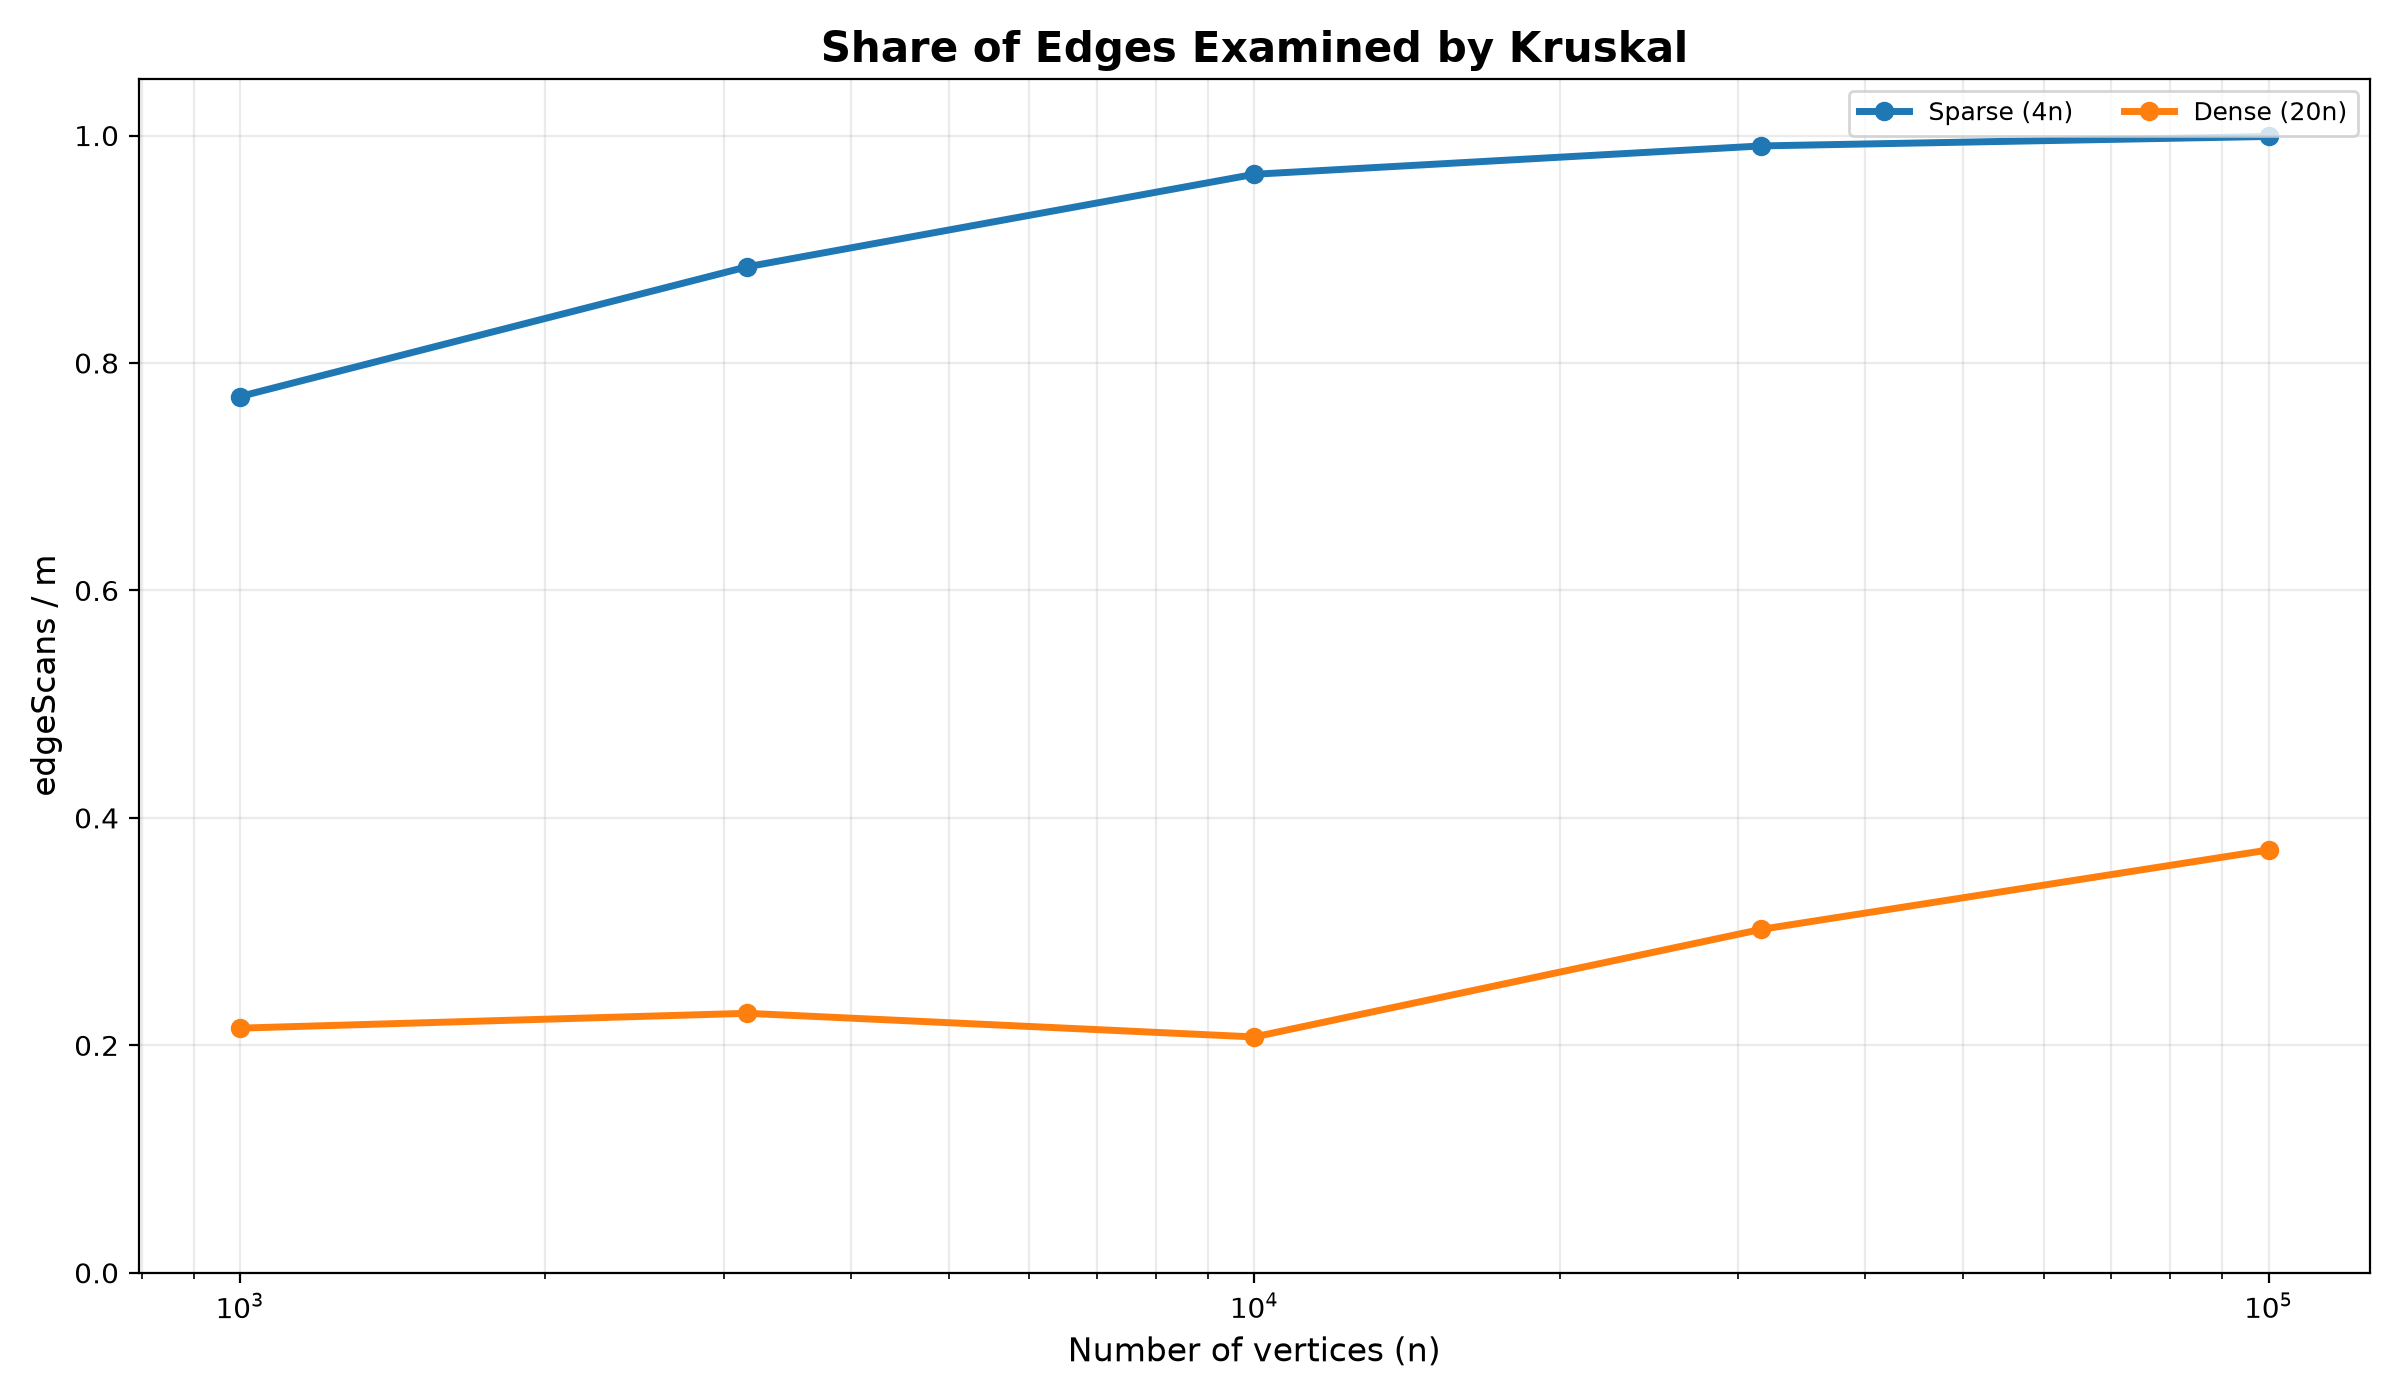
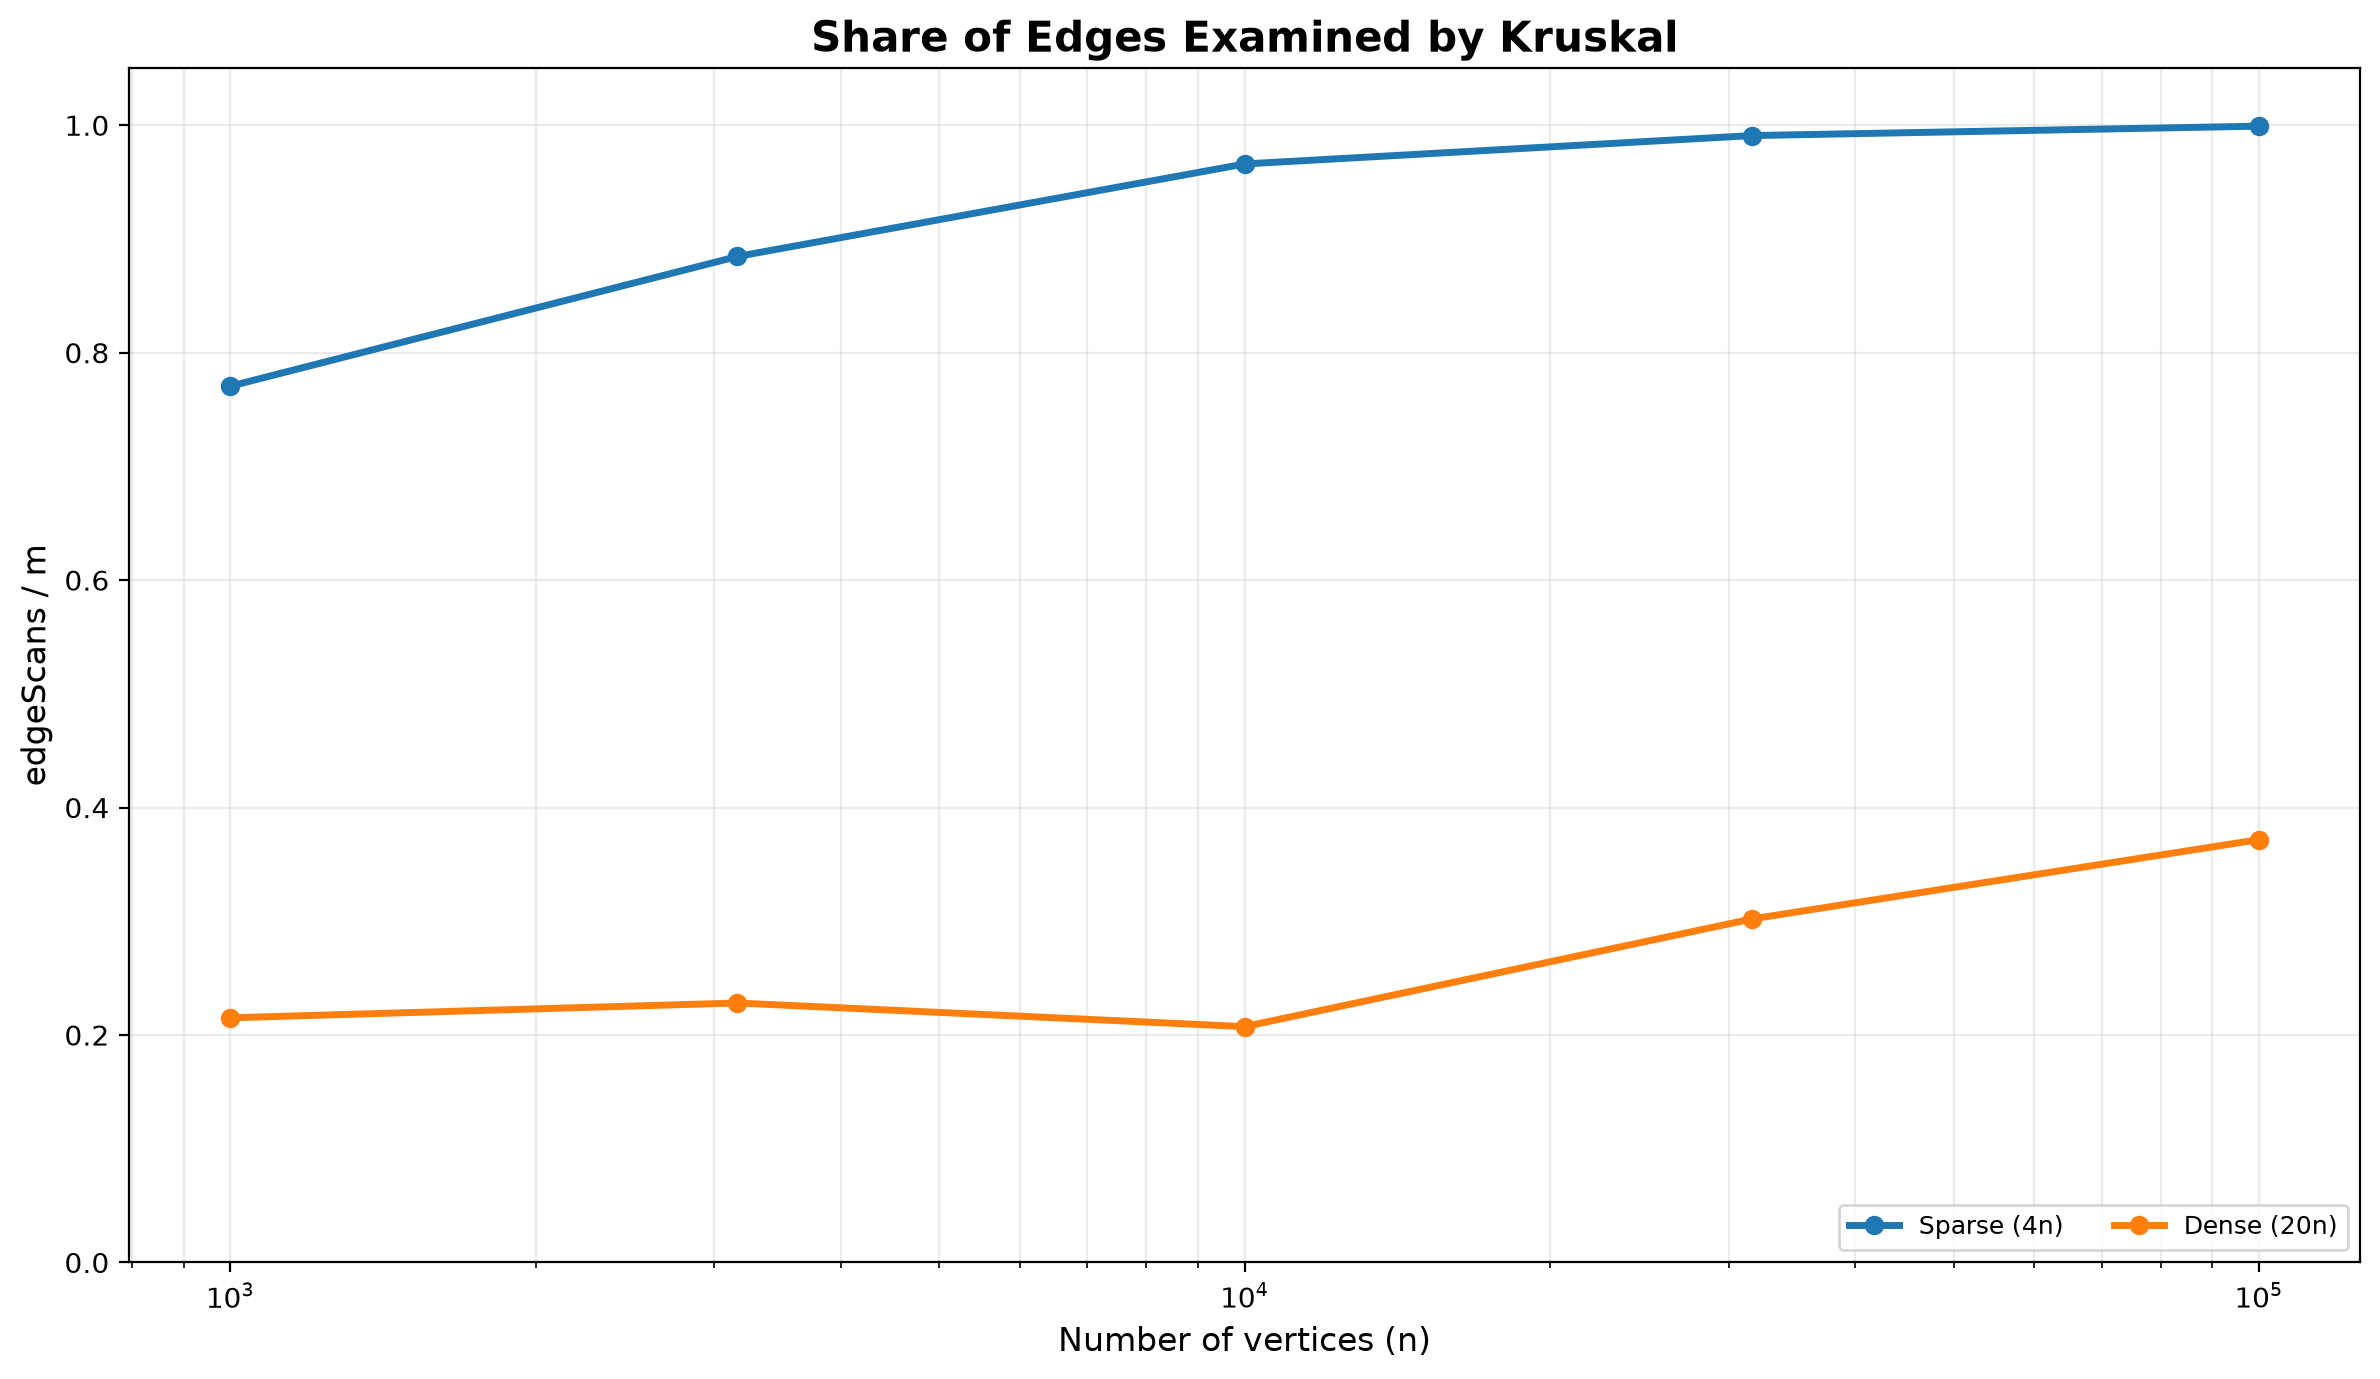
docs(plots): improve chart legends

diff --git a/scripts/plot_results.py b/scripts/plot_results.py
@@ -79,10 +79,29 @@ def setup_plot(title, ylabel, log_y=False):
     plt.grid(True, which="both", alpha=0.25)
 
 
-def save_plot(filename):
-    plt.legend(fontsize=9, ncol=2)
+def save_plot(filename, legend_location="best", legend_below=False):
+    if legend_below:
+        plt.legend(
+            loc="upper center",
+            bbox_to_anchor=(0.5, -0.12),
+            ncol=5,
+            fontsize=9
+        )
+    else:
+        plt.legend(
+            loc=legend_location,
+            fontsize=9,
+            ncol=2
+        )
+
     plt.tight_layout()
-    plt.savefig(PLOT_DIR / filename, dpi=200)
+
+    plt.savefig(
+        PLOT_DIR / filename,
+        dpi=200,
+        bbox_inches="tight"
+    )
+
     plt.close()
 
     print(f"Saved {filename}")
@@ -130,6 +149,7 @@ def plot_scans_per_edge(rows):
             data = get_series(rows, algorithm, density)
 
             x = [row["n"] for row in data]
+
             y = [
                 row["edge_scans"] / row["m"]
                 for row in data
@@ -143,7 +163,11 @@ def plot_scans_per_edge(rows):
                 label=f"{algorithm} ({density}n)"
             )
 
-    save_plot("scans_per_edge.png")
+    # Legend below the graph
+    save_plot(
+        "scans_per_edge.png",
+        legend_below=True
+    )
 
 
 def plot_kruskal_share(rows):
@@ -156,6 +180,7 @@ def plot_kruskal_share(rows):
         data = get_series(rows, "Kruskal", density)
 
         x = [row["n"] for row in data]
+
         y = [
             row["edge_scans"] / row["m"]
             for row in data
@@ -171,7 +196,11 @@ def plot_kruskal_share(rows):
 
     plt.ylim(0, 1.05)
 
-    save_plot("kruskal_edge_share.png")
+    # Legend in the lower-right corner
+    save_plot(
+        "kruskal_edge_share.png",
+        legend_location="lower right"
+    )
 
 
 def log_log_slope(data, value_function):
@@ -201,10 +230,13 @@ def print_slopes(rows):
             data = get_series(rows, algorithm, density)
 
             slope = log_log_slope(
-                data, lambda row: row["edge_scans"]
+                data,
+                lambda row: row["edge_scans"]
             )
 
-            print(f"{algorithm} ({density}n): {slope:.3f}")
+            print(
+                f"{algorithm} ({density}n): {slope:.3f}"
+            )
 
     for density in [4, 20]:
         data = get_series(rows, "Kruskal", density)
@@ -218,7 +250,10 @@ def print_slopes(rows):
             )
         )
 
-        print(f"Kruskal total operations ({density}n): {slope:.3f}")
+        print(
+            f"Kruskal total operations ({density}n): "
+            f"{slope:.3f}"
+        )
 
 
 def main():
